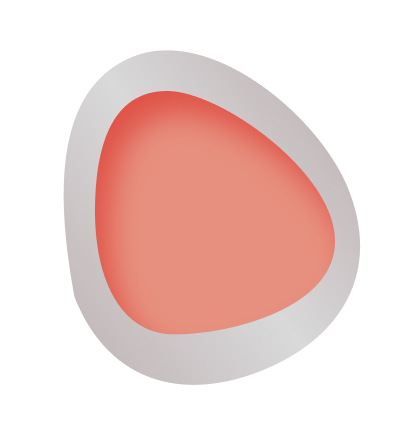
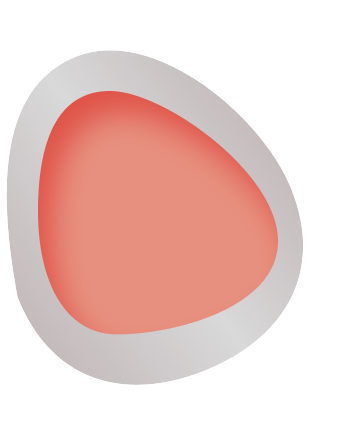
ears anime

Changed region(s): [[0.0, 0.1224, 0.848, 0.9176], [0.4094, 0.0918, 0.9064, 0.9176]]

diff --git a/Petsitter/wwwroot/css/site.css b/Petsitter/wwwroot/css/site.css
@@ -1440,27 +1440,74 @@ body.light {
     object-fit: cover;
     z-index: 1;
 }
-
 .ushki {
-    width: 60%;
+    width: 500px; /* Adjust width as needed */
 }
 
-.img__ear {
-    position: absolute;
-    top: 0;
-    height: 340px;
-    object-fit: cover;
-    z-index: 0;
-}
-
+.img__ear,
 .img__ear__2 {
     position: absolute;
     top: 0;
     height: 340px;
     object-fit: cover;
-    right: 0;
     z-index: 0;
+    transition: transform 0.5s cubic-bezier(0.5, 1.0, 0.9, 0.6); /* Smooth transition for animation */
 }
+
+.img__ear {
+    left: 9px;
+}
+
+.img__ear__2 {
+    right: 0;
+}
+
+/* Animation styles */
+@keyframes earWiggle {
+    0% {
+        transform: rotate(0deg);
+    }
+
+    95% {
+        transform: rotate(0deg);
+    }
+
+    98% {
+        transform: rotate(-30deg); 
+    }
+
+    100% {
+        transform: rotate(0deg);
+    }
+}
+
+
+@keyframes earWiggle2 {
+    0% {
+        transform: rotate(0deg);
+    }
+
+    95% {
+        transform: rotate(0deg);
+    }
+
+    98% {
+        transform: rotate(30deg);
+    }
+
+    100% {
+        transform: rotate(0deg);
+    }
+}
+
+.img__ear {
+    animation: earWiggle 5s cubic-bezier(0.5, 1.0, 0.9, 0.6) infinite; /* Apply animation to left ear */
+}
+
+.img__ear__2 {
+    animation: earWiggle2 5s cubic-bezier(0.5, 1.0, 0.9, 0.6) infinite; /* Apply animation to right ear */
+}
+ 
 
 .eyes {
     position: absolute;
